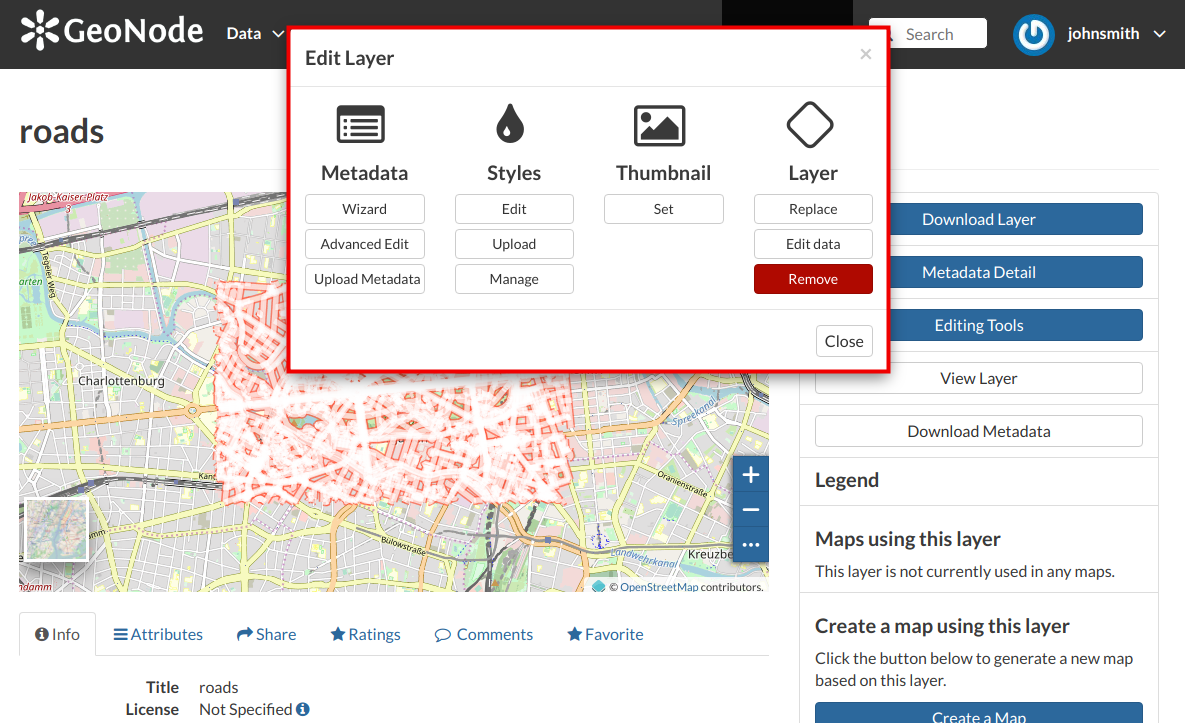
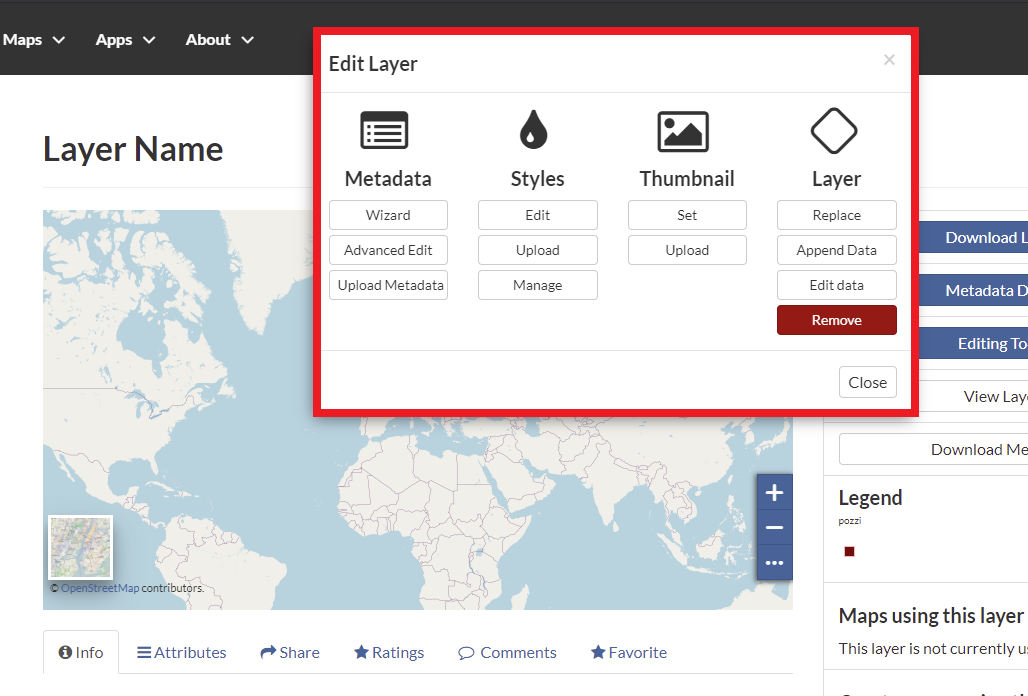
[Relates to #7194] Append data to layer

diff --git a/usage/managing_layers/layer_editing.rst b/usage/managing_layers/layer_editing.rst
@@ -65,6 +65,28 @@ We have replaced the *roads* dataset with the *railways* one. You can see the di
 
 .. _layer-data-editing:
 
+Append Data to Layer
+--------------------
+
+From the *Layer Editing* panel click on :guilabel:`Append` to append data to the layer source dataset. You will be driven to the *Append Layer* page in which :guilabel:`Choose Files` button allows you to select files from your disk.
+
+.. figure:: img/layer_append.png
+     :align: center
+
+     *Append to a Layer*
+
+Once the *Charset* selected the upload process can be triggered by clicking on :guilabel:`Append to Layer`. If no errors occur you will see a message like the one in the picture below.
+
+.. figure:: img/layer_append_success.png
+     :align: center
+
+     *Replace Layer success*
+
+We have append the *layer_name* dataset to the existing one. You can see the differences in the *Layer Preview*.
+
+
+.. _layer-data-editing:
+
 Editing the Layer Data
 ----------------------
 
